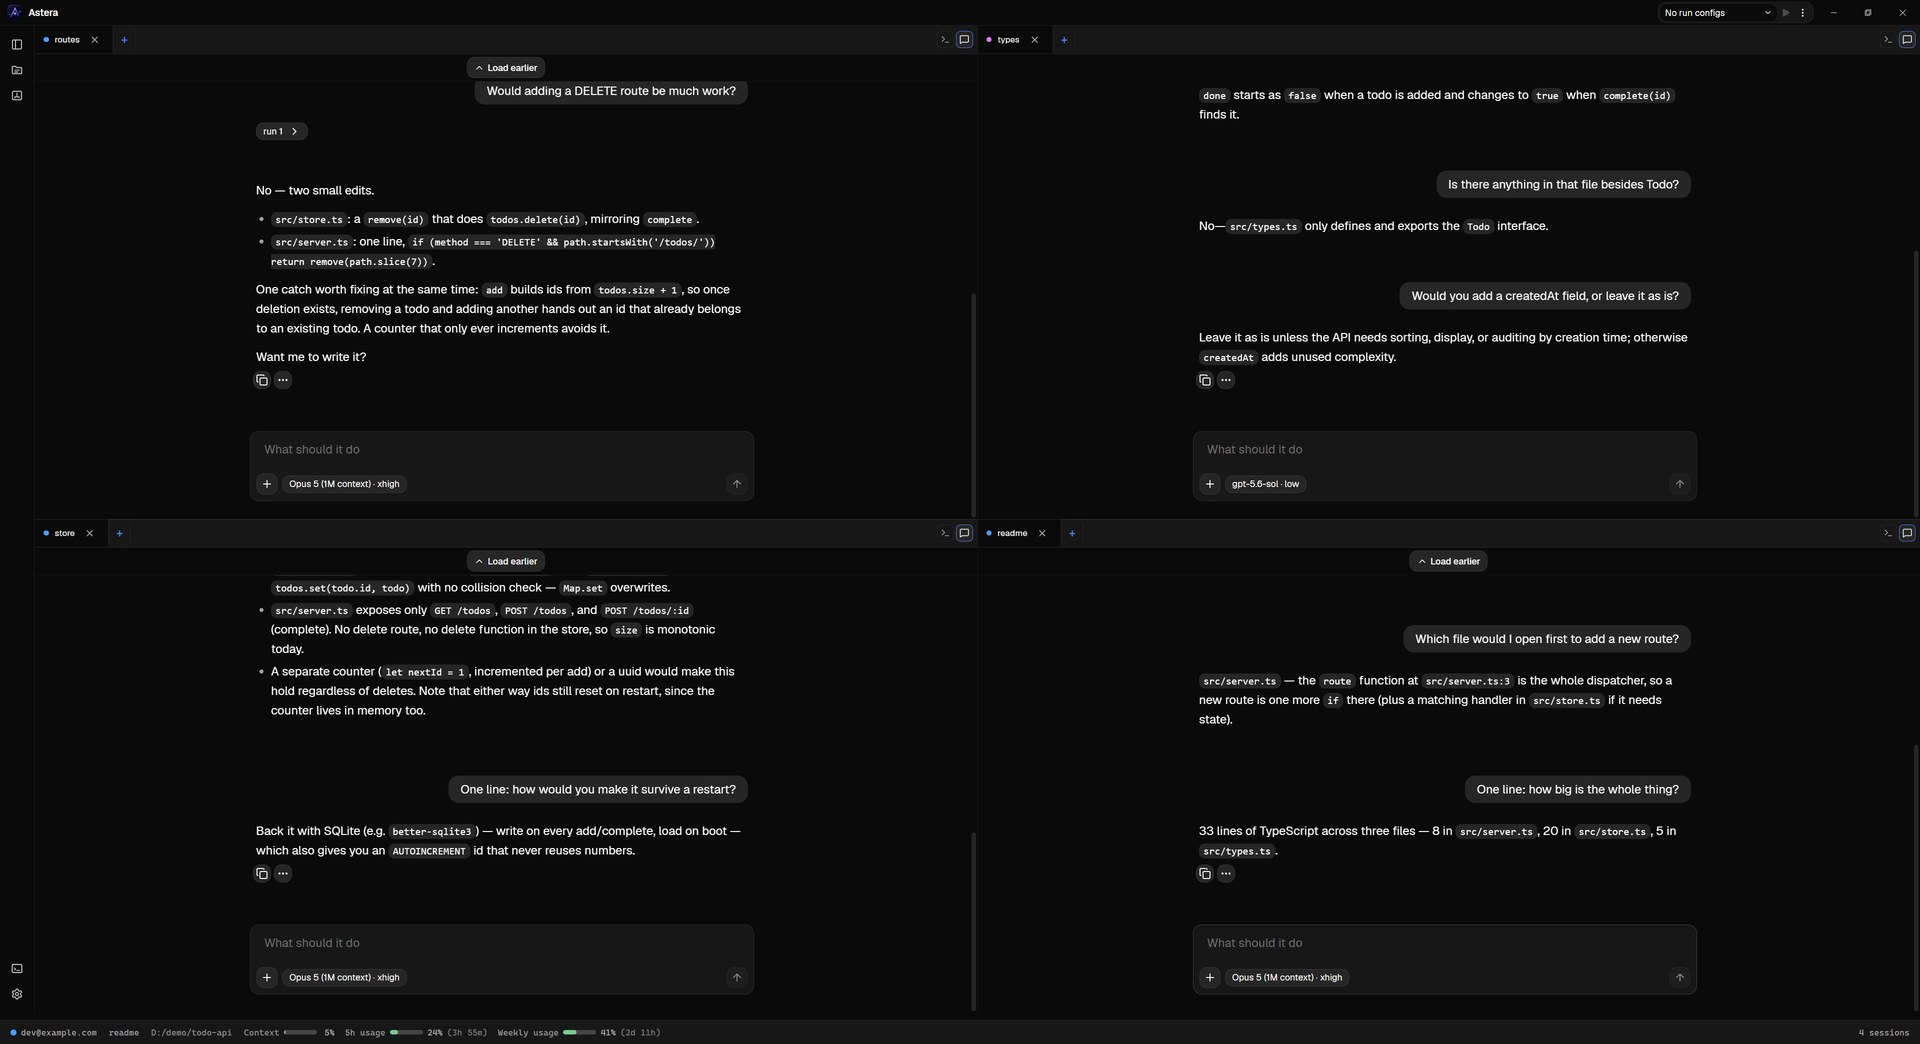
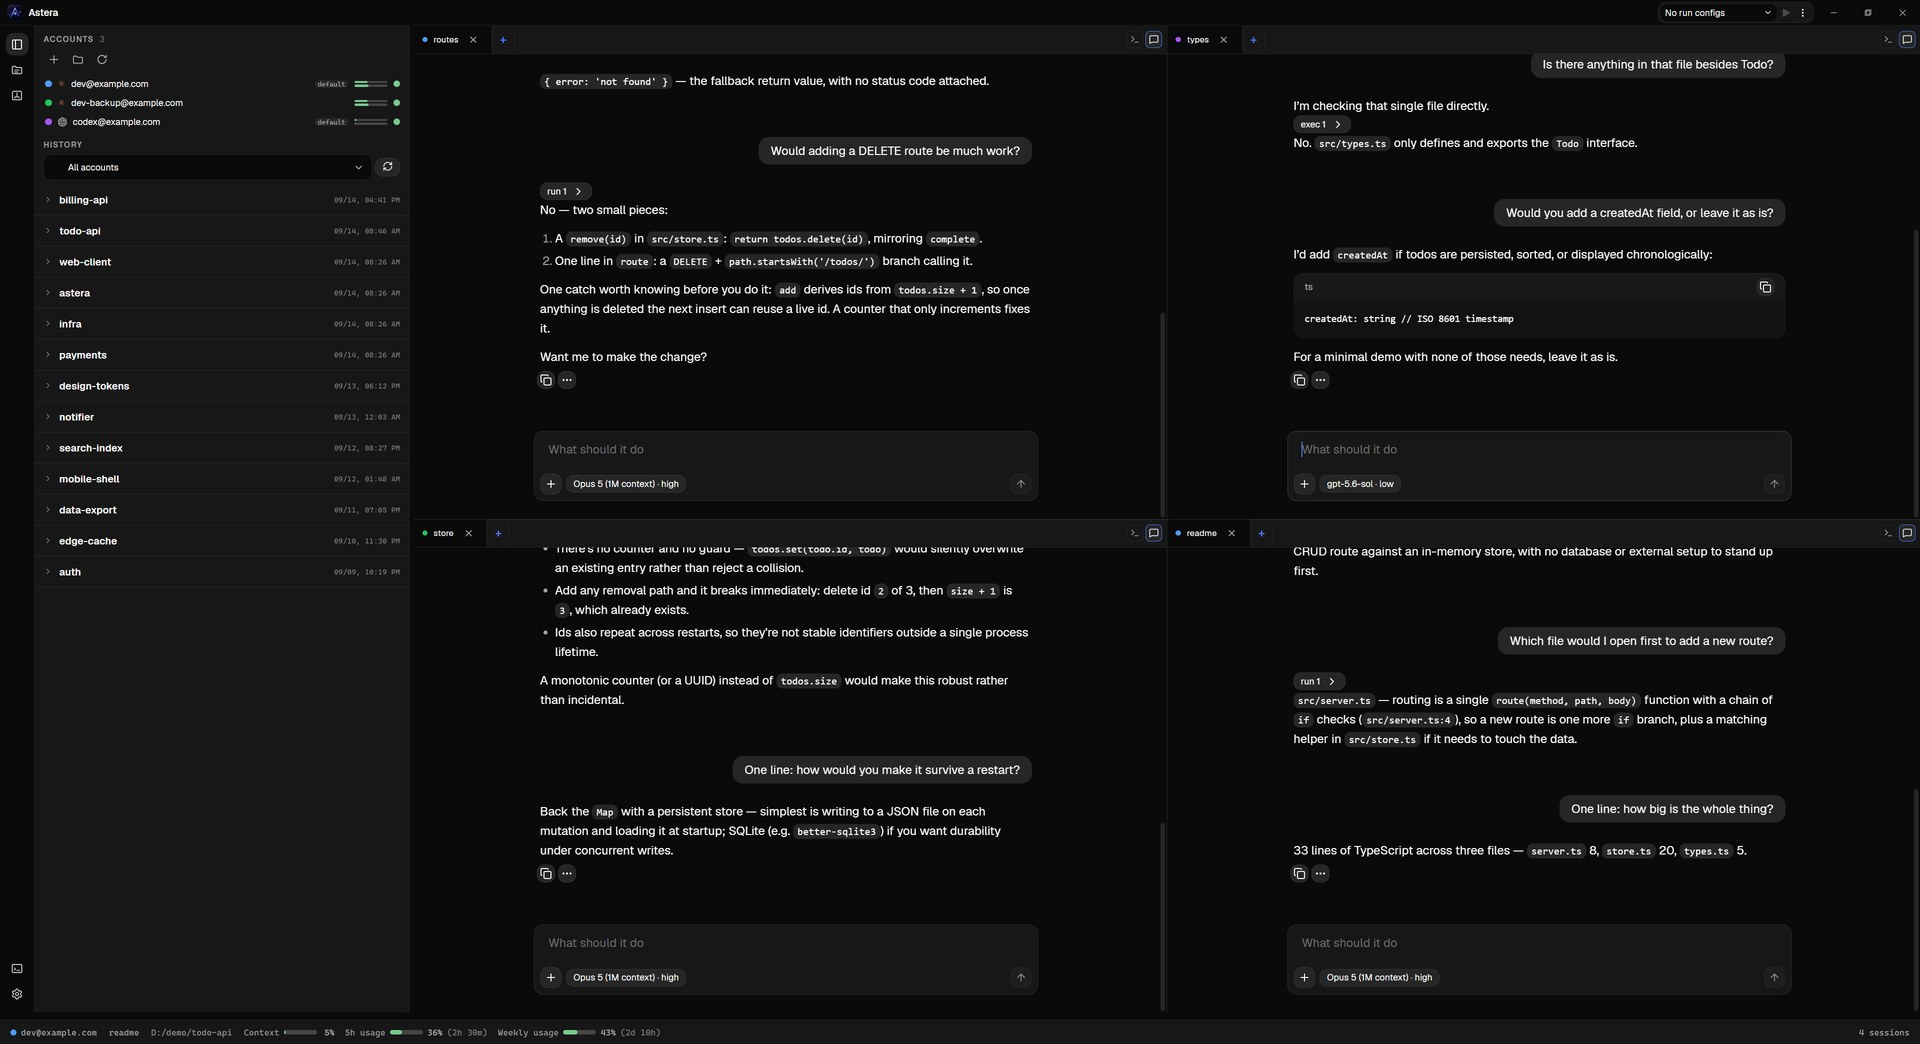
docs: the conversation screenshot is framed like the hero, sidebar and all
Re-shot with the sidebar open on a throwaway profile: three example accounts,
a project history of throwaway names, and the four sessions on D:/demo/todo-api
-- nothing from a real account or project on screen.

diff --git a/README.ja.md b/README.ja.md
@@ -29,7 +29,7 @@
 - ファイルをドロップするか画像を貼り付けると、そのパスがメッセージに入ります
 
 <div align="center">
-<img src="assets/conversation.jpg" width="820" alt="The same four sessions shown as chat threads in a 2x2 grid — three Claude Code and one Codex, each with its own composer, model and reasoning effort" />
+<img src="assets/conversation.jpg" width="820" alt="The same four sessions read as chat threads in a 2x2 grid — three Claude Code and one Codex, on two Claude accounts and a Codex one, each pane with its own composer, model and reasoning effort, and the accounts and project history in the sidebar" />
 </div>
 
 **アカウント**

diff --git a/README.ko.md b/README.ko.md
@@ -30,7 +30,7 @@
 - 파일을 끌어다 놓거나 이미지를 붙여넣으면 그 경로가 메시지에 들어갑니다
 
 <div align="center">
-<img src="assets/conversation.jpg" width="820" alt="The same four sessions shown as chat threads in a 2x2 grid — three Claude Code and one Codex, each with its own composer, model and reasoning effort" />
+<img src="assets/conversation.jpg" width="820" alt="The same four sessions read as chat threads in a 2x2 grid — three Claude Code and one Codex, on two Claude accounts and a Codex one, each pane with its own composer, model and reasoning effort, and the accounts and project history in the sidebar" />
 </div>
 
 **계정**

diff --git a/README.es.md b/README.es.md
@@ -30,7 +30,7 @@
 - Arrastra un archivo o pega una imagen y su ruta entra en el mensaje
 
 <div align="center">
-<img src="assets/conversation.jpg" width="820" alt="The same four sessions shown as chat threads in a 2x2 grid — three Claude Code and one Codex, each with its own composer, model and reasoning effort" />
+<img src="assets/conversation.jpg" width="820" alt="The same four sessions read as chat threads in a 2x2 grid — three Claude Code and one Codex, on two Claude accounts and a Codex one, each pane with its own composer, model and reasoning effort, and the accounts and project history in the sidebar" />
 </div>
 
 **Cuentas**

diff --git a/README.md b/README.md
@@ -30,7 +30,7 @@
 - Drop a file or paste an image and its path goes into the message
 
 <div align="center">
-<img src="assets/conversation.jpg" width="820" alt="The same four sessions shown as chat threads in a 2x2 grid — three Claude Code and one Codex, each with its own composer, model and reasoning effort" />
+<img src="assets/conversation.jpg" width="820" alt="The same four sessions read as chat threads in a 2x2 grid — three Claude Code and one Codex, on two Claude accounts and a Codex one, each pane with its own composer, model and reasoning effort, and the accounts and project history in the sidebar" />
 </div>
 
 **Accounts**
